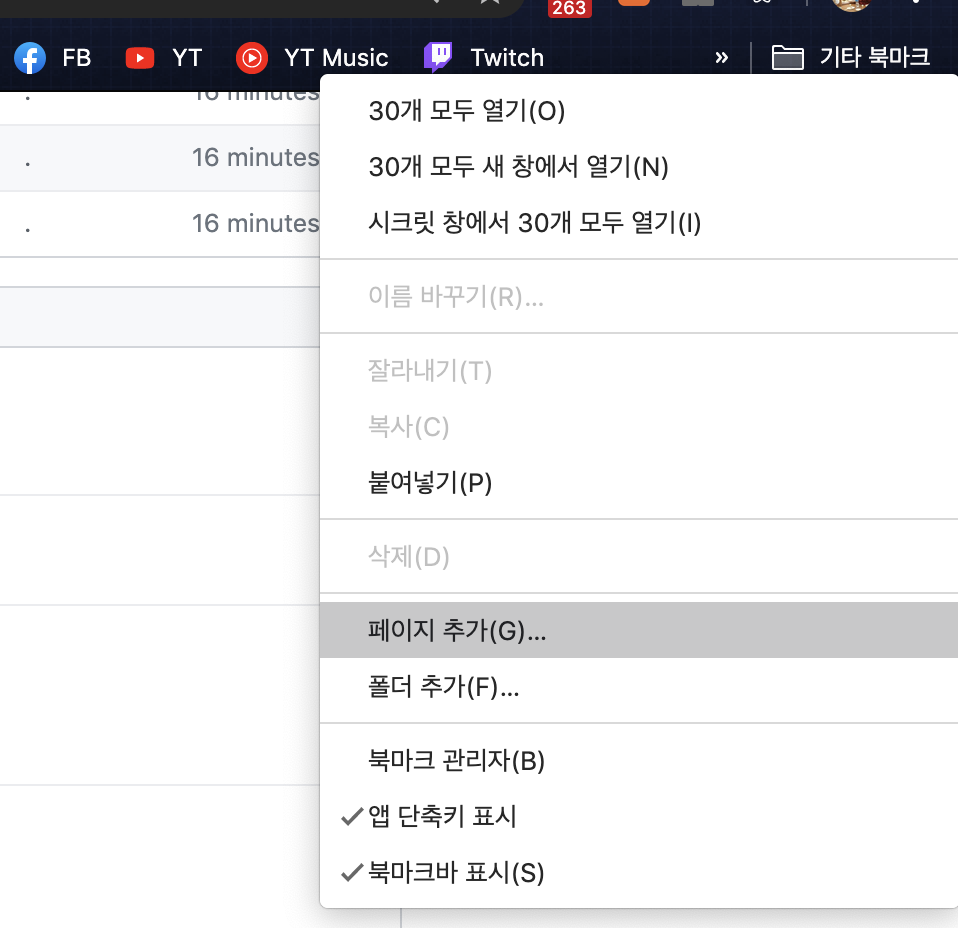
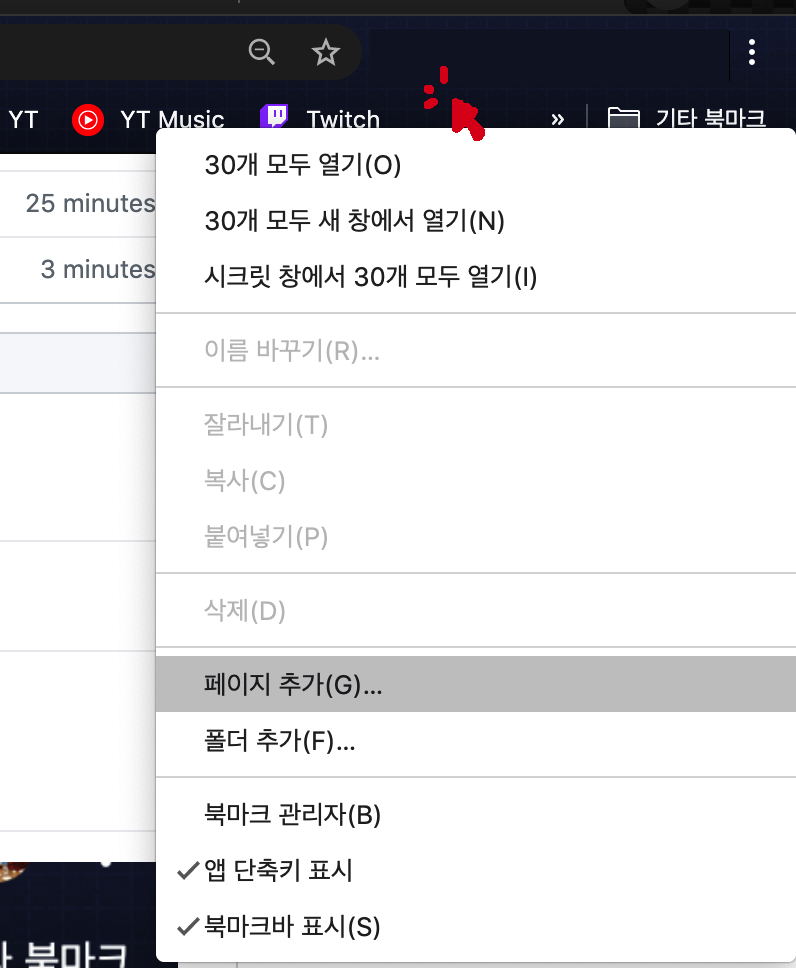
use smaller image

Changed region(s): [[0.0, 0.0, 1.0, 1.0], [0.5729, 0.0, 0.7538, 0.0312], [0.0, 0.3438, 0.1508, 0.375]]

diff --git a/dgu-eclass-vulnerable/build/build.py b/dgu-eclass-vulnerable/build/build.py
@@ -58,12 +58,12 @@ def wrapReadme(source):
 
 ## 설치
 
-![페이지 추가](img/1.png)
+![페이지 추가](img/1s.png)
 
 구글 크롬에서 [북마크바 위에 마우스 커서를 올리고 **우클릭**]-[페이지 추가] 클릭
 * 북마크바는 (Ctrl+Shift+B)를 누르면 나타남.
 
-![북마크 수정](img/2.png)
+![북마크 수정](img/2s.png)
 
 * 이름: *적당히 아무 이름으로 설정*
 * URL: **(중요)** *본래 내용을 지우고, 아래의 '코드 전체'를 복사 붙여넣기*

diff --git a/dgu-eclass-vulnerable/readme.md b/dgu-eclass-vulnerable/readme.md
@@ -6,12 +6,12 @@
 
 ## 설치
 
-![페이지 추가](img/1.png)
+![페이지 추가](img/1s.png)
 
 구글 크롬에서 [북마크바 위에 마우스 커서를 올리고 **우클릭**]-[페이지 추가] 클릭
 * 북마크바는 (Ctrl+Shift+B)를 누르면 나타남.
 
-![북마크 수정](img/2.png)
+![북마크 수정](img/2s.png)
 
 * 이름: *적당히 아무 이름으로 설정*
 * URL: **(중요)** *본래 내용을 지우고, 아래의 '코드 전체'를 복사 붙여넣기*
